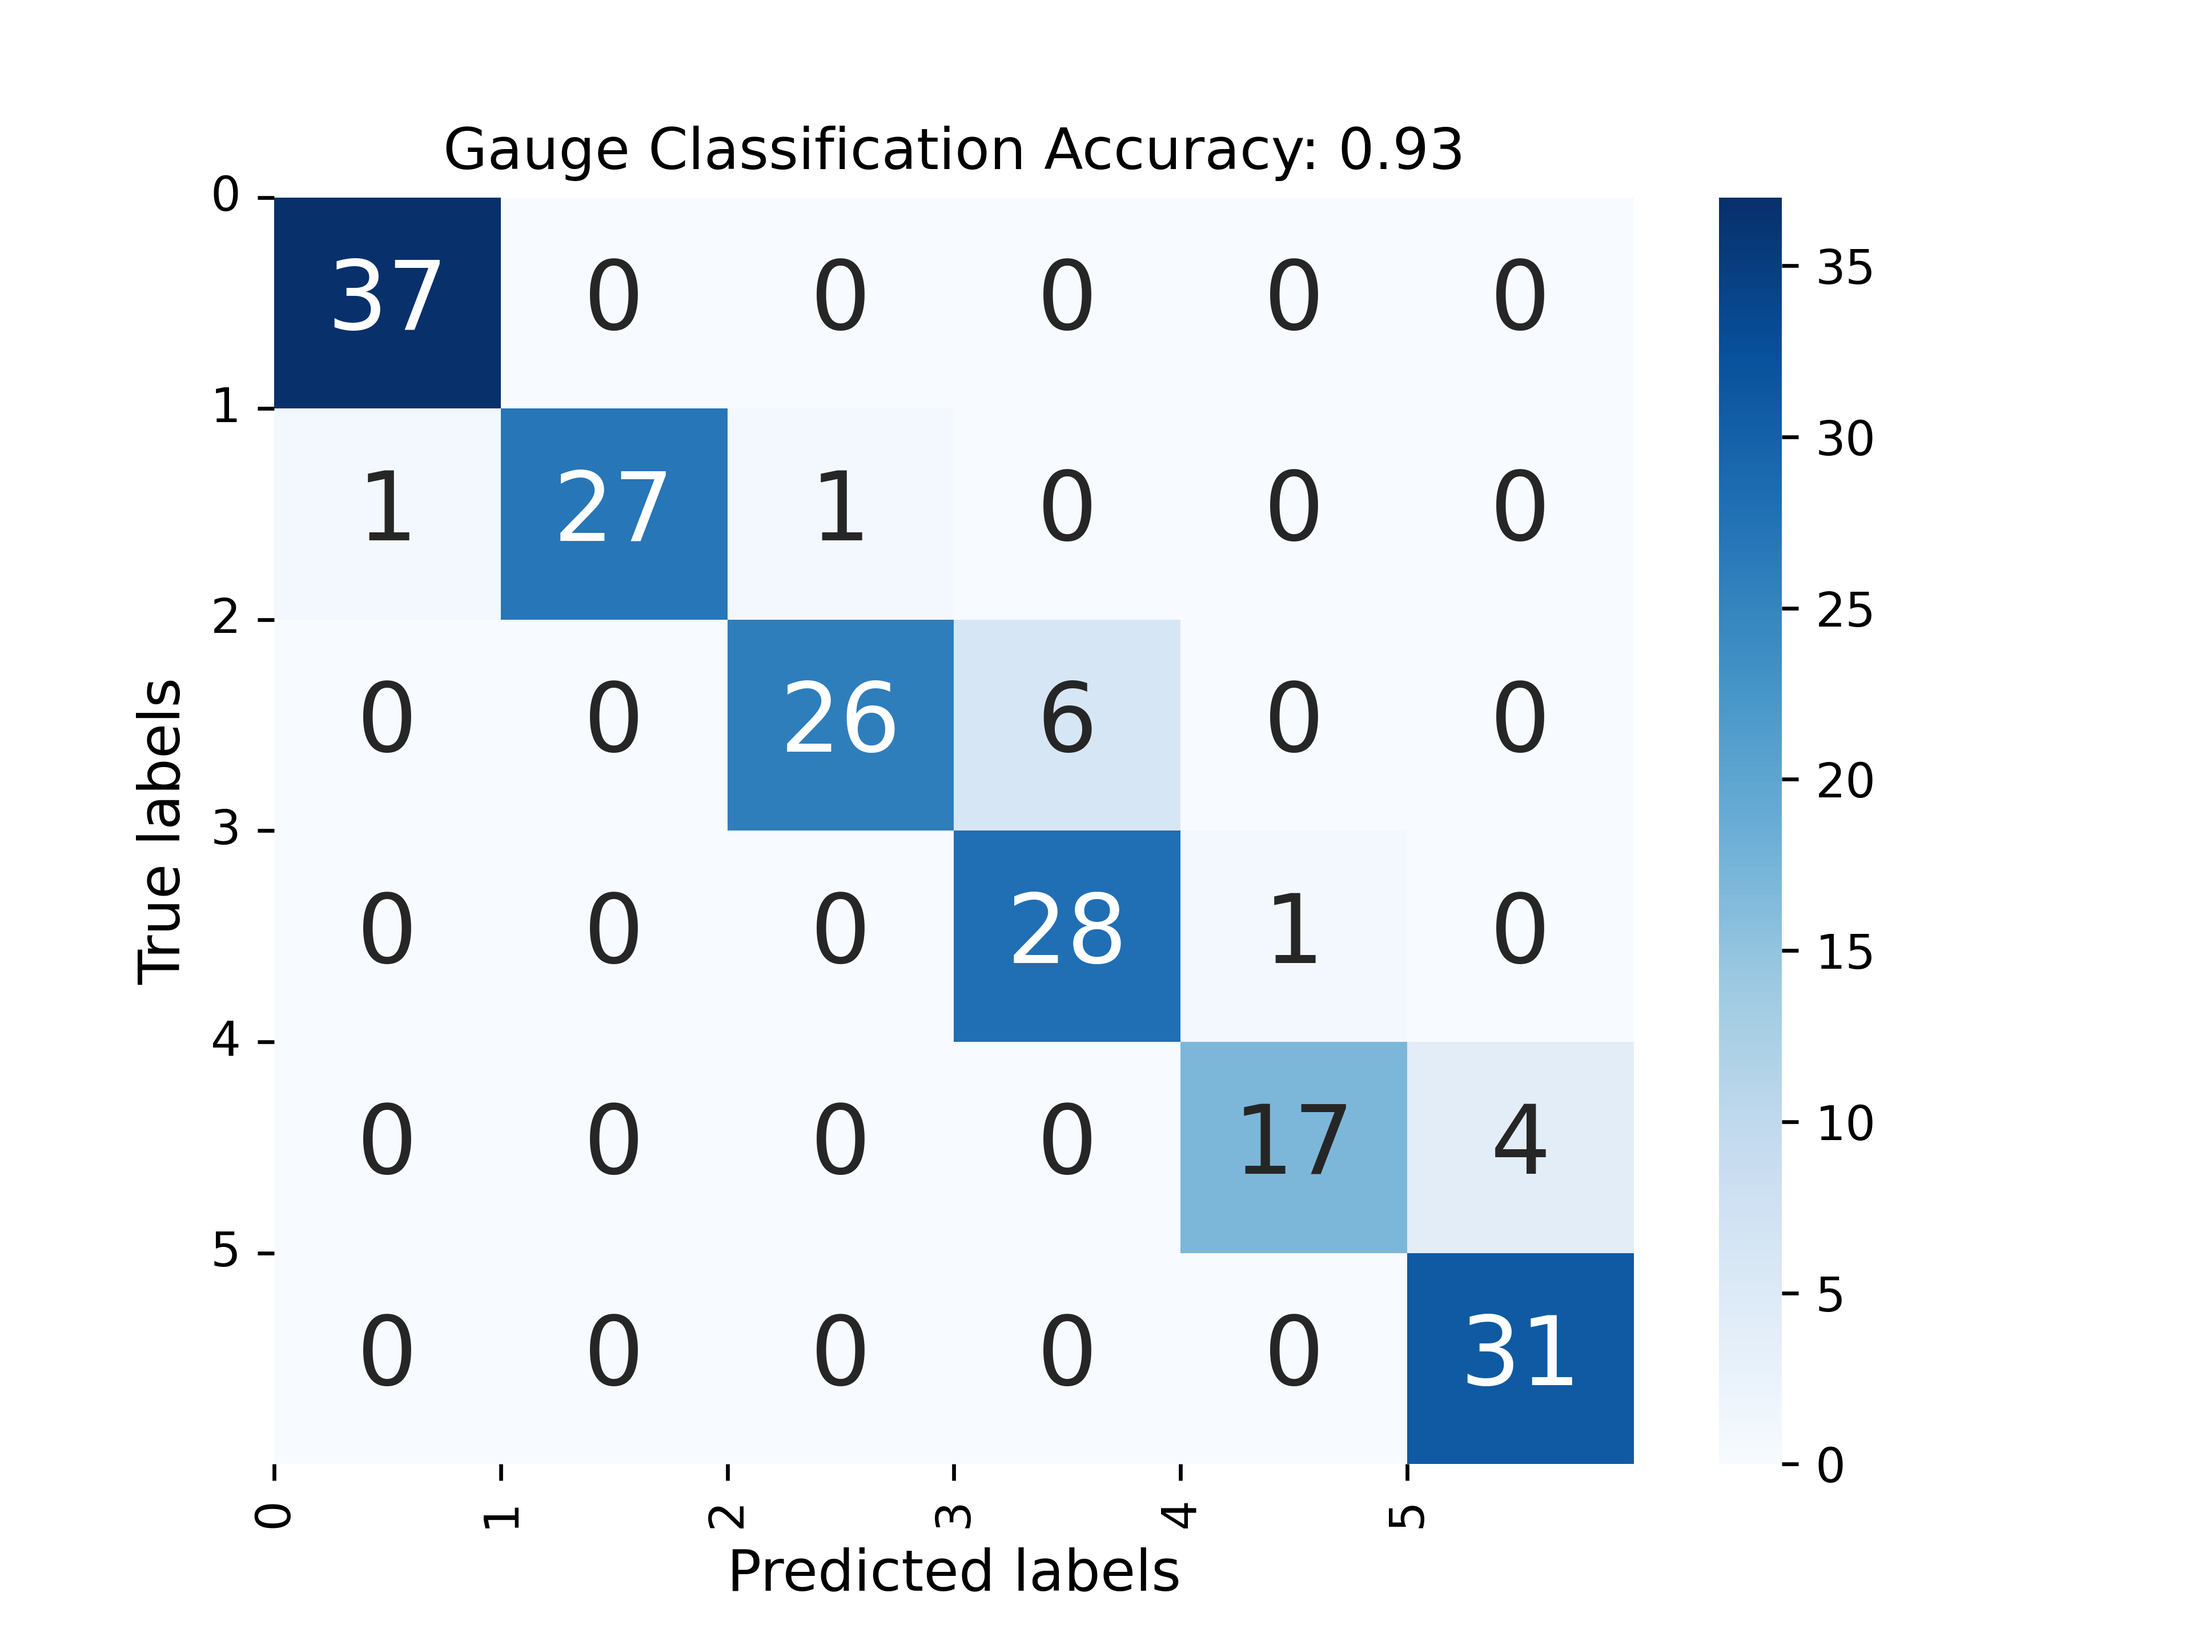
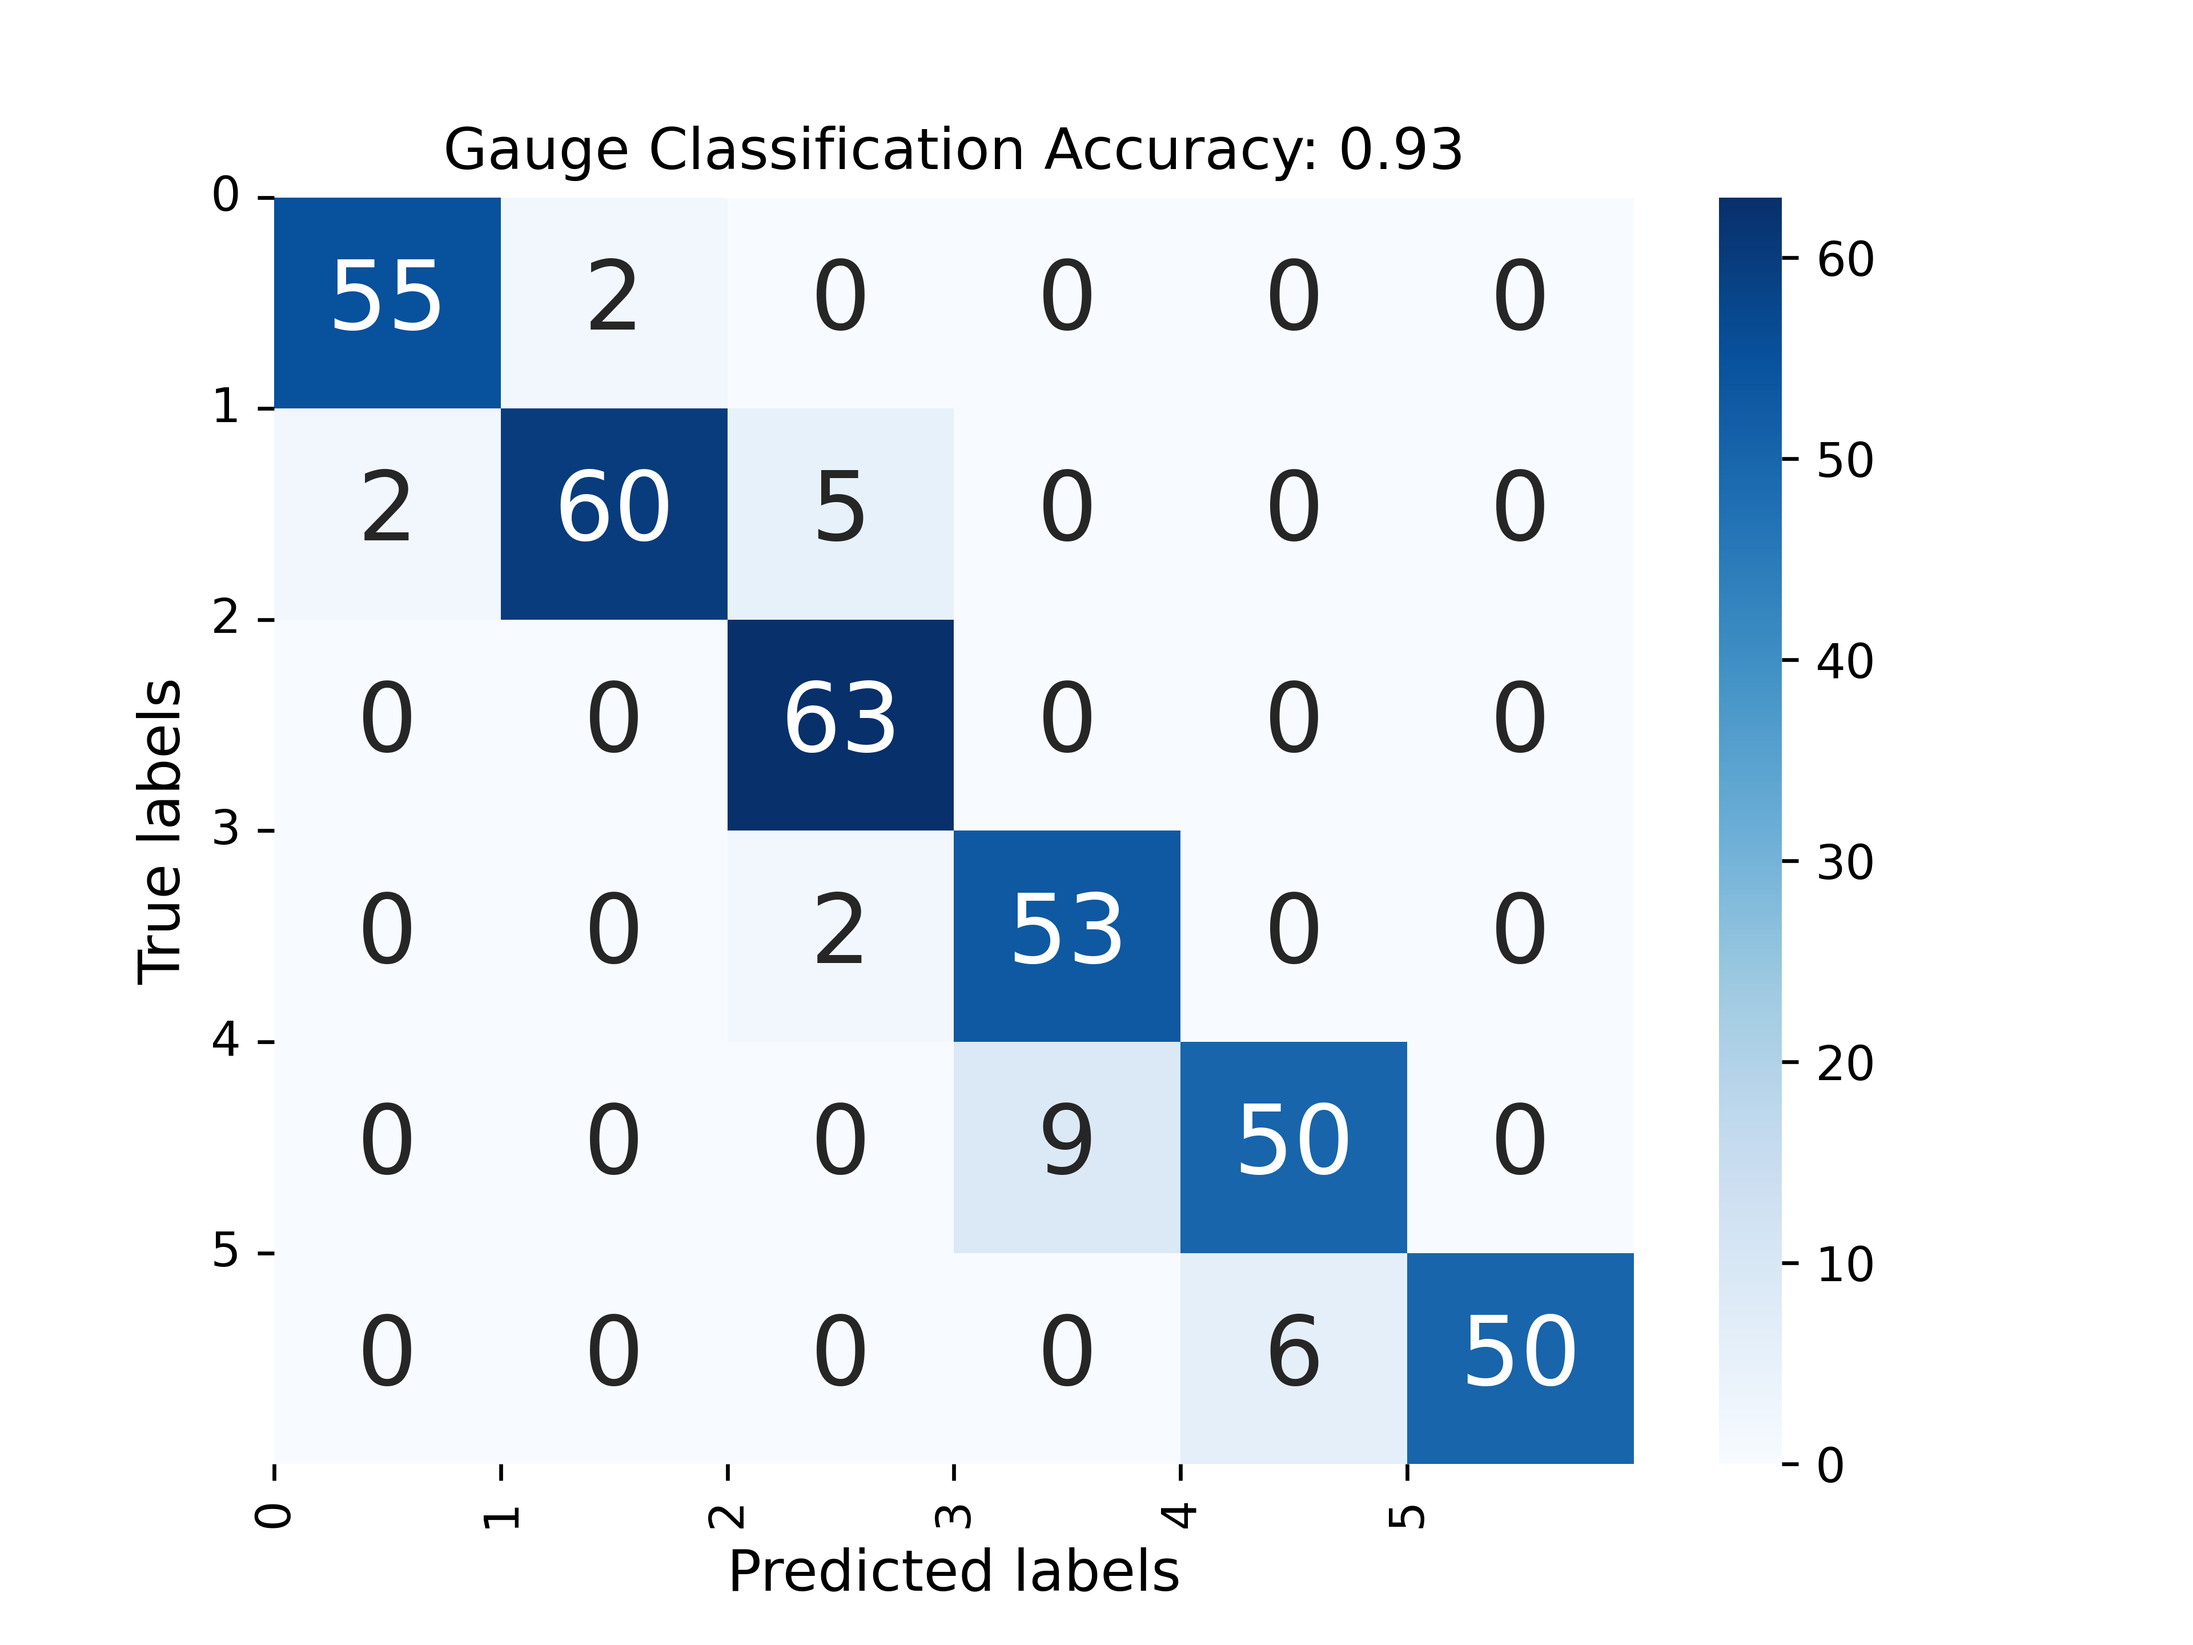
updated codes

diff --git a/sythetic-data-gen-2.py b/sythetic-data-gen-2.py
@@ -86,4 +86,4 @@ gaugeDegreeMap = {
 }
 
 generate_all_needles()
-iterate_gauge(gaugeDegreeMap, variation=10)  # Generate 10 variations per gauge level
+iterate_gauge(gaugeDegreeMap, variation=20)  # Generate 10 variations per gauge level
